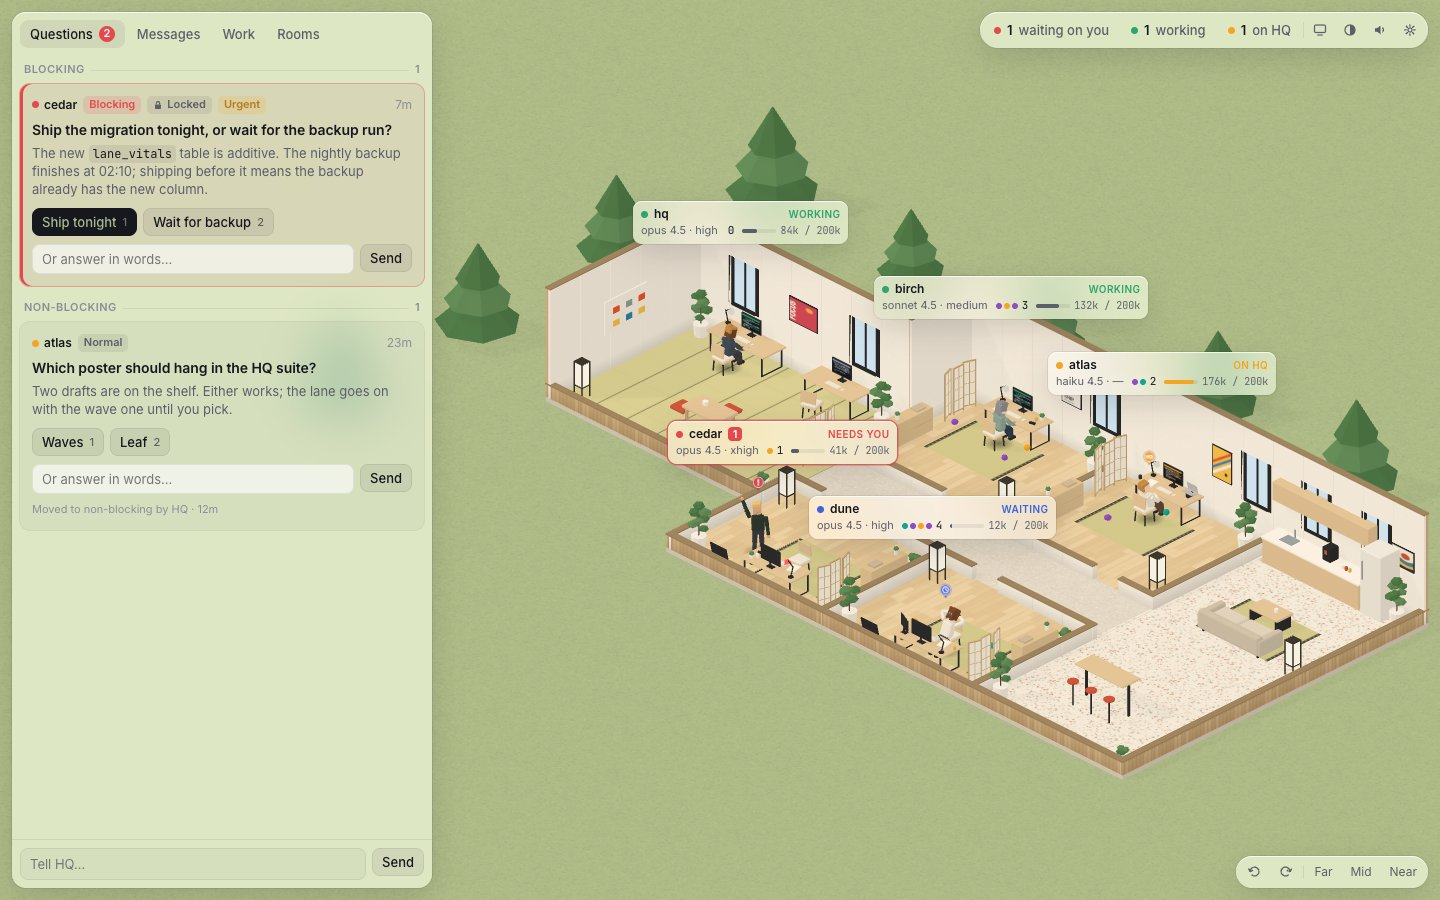
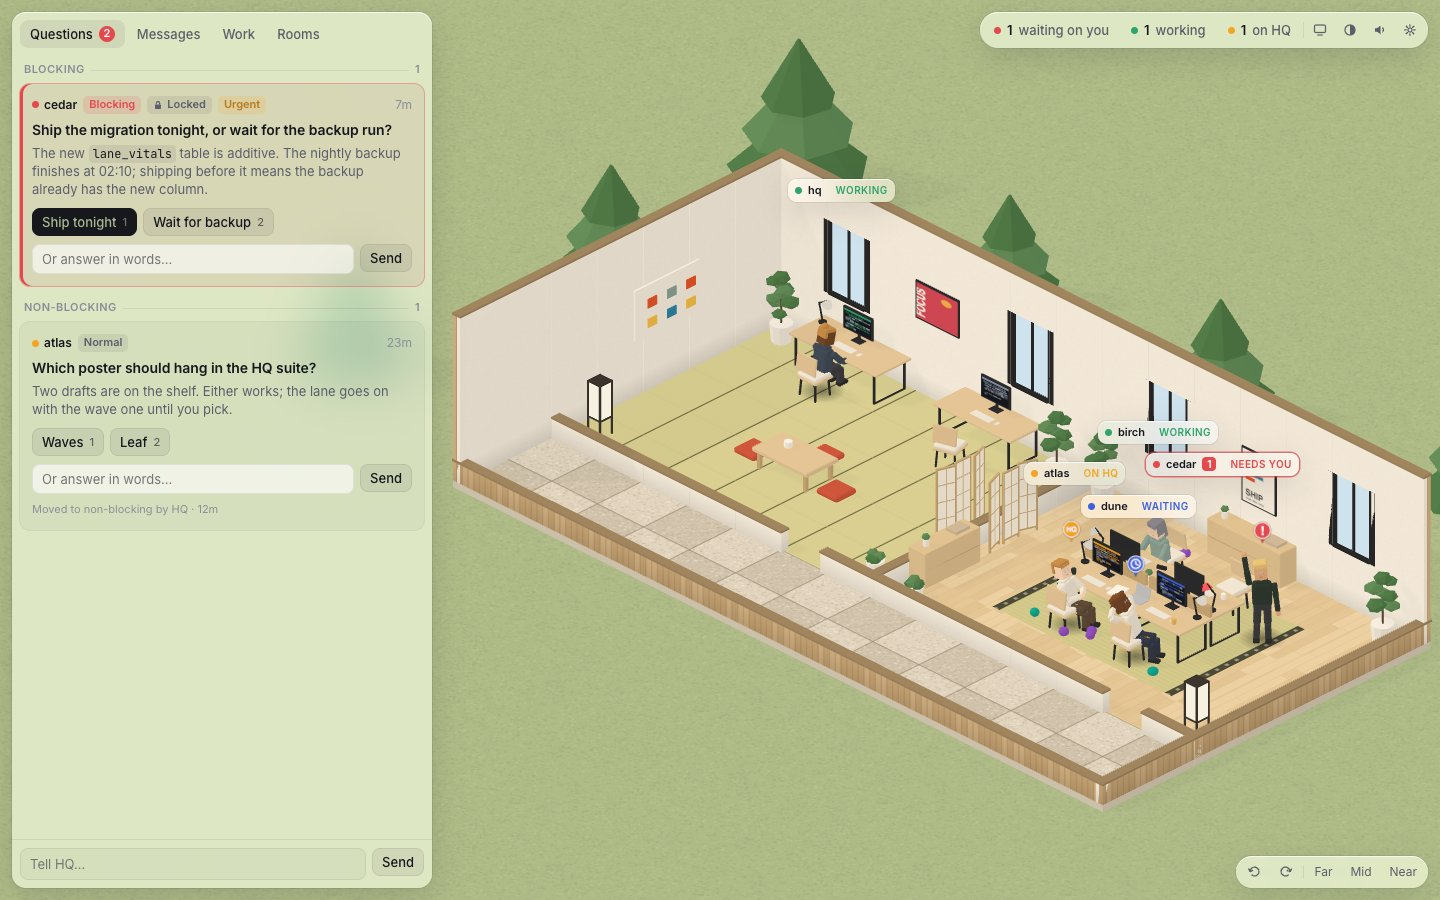
world lab: chips laid out like the desk HUD; look B shots re-shot with team rooms

Changed region(s): [[0.2188, 0.0311, 1.0, 0.9022]]

diff --git a/docs/design/world-lab.html b/docs/design/world-lab.html
@@ -180,6 +180,7 @@
 import { mountWorld } from "/src/client/world/world.js";
 import { deskAnchor, project, onFrame } from "/src/client/world/api.js";
 import { STATUS, MODEL, modelFamily } from "/src/client/world/look.js";
+import { place } from "/src/client/desk-hud/layout.js";
 
 const q = new URLSearchParams(location.search);
 const theme = q.get("theme") === "dark" ? "dark" : "light";
@@ -266,15 +267,33 @@ for (const l of lanes) {
   huds.appendChild(el);
   chips.set(l.name, el);
 }
+// Desks in a team room stand close, so the chips are laid out as the page's desk HUD does (desk-hud/layout.js):
+// waiting lanes first, then the desk nearest the camera; a chip whose spot is taken moves to the nearest free one.
+const status = new Map(lanes.map((l) => [l.name, l.status]));
+// crowdedAt: the zoom at which full chips had to move more than 40 px; they stay small until the zoom changes
+let crowdedAt = 0;
 onFrame(() => {
-  const small = world.view.ppm < 30;
+  const ppm = world.view.ppm;
+  if (crowdedAt && Math.abs(ppm - crowdedAt) > crowdedAt * 0.15) crowdedAt = 0;
+  const small = ppm < 30 || crowdedAt > 0;
+  const column = document.getElementById("column");
+  const obstacles = ui && column ? [column.getBoundingClientRect()].map((r) => ({ x: r.left, y: r.top, w: r.width, h: r.height })) : [];
+  const items = [];
   for (const [name, el] of chips) {
     const a = deskAnchor(name);
     const p = a && project(a);
     if (!p || !p.visible) { el.style.display = "none"; continue; }
     el.style.display = "";
     el.classList.toggle("small", small);
-    el.style.transform = `translate(${Math.round(p.x - el.offsetWidth / 2)}px, ${Math.round(p.y - el.offsetHeight)}px)`;
+    items.push({ key: name, x: p.x - el.offsetWidth / 2, y: p.y - el.offsetHeight, w: el.offsetWidth, h: el.offsetHeight, wait: status.get(name) === "needs_you" });
+  }
+  items.sort((a, b) => Number(b.wait) - Number(a.wait) || b.y - a.y);
+  const spots = place(items, { obstacles, bounds: { x: 0, y: 0, w: innerWidth, h: innerHeight }, reach: 160 });
+  if (!small && [...spots.values()].some((s) => !s || s.moved > 40)) crowdedAt = ppm;
+  for (const it of items) {
+    const el = chips.get(it.key), s = spots.get(it.key);
+    if (!s) { el.style.display = "none"; continue; }
+    el.style.transform = `translate(${Math.round(s.x)}px, ${Math.round(s.y)}px)`;
   }
 });
 
